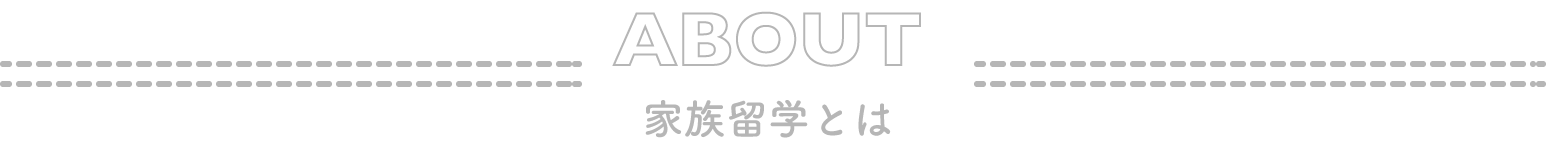
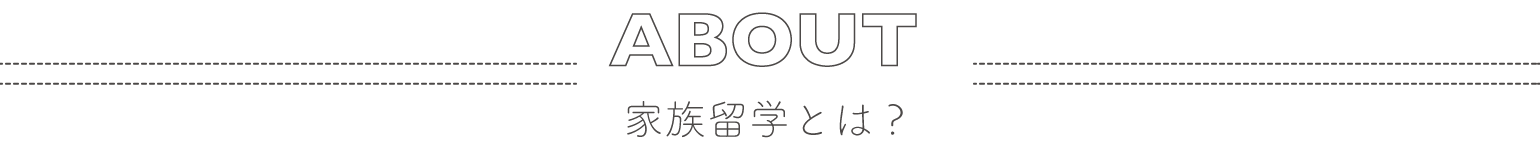
dix#71

diff --git a/index.html b/index.html
@@ -90,6 +90,9 @@
       </section>
 
       <section id="about" class="section">
+        <div class="section-header">
+          <img src="image/index/title/title-about.png" srcset="image/index/title/title-about.png 1x, image/index/title/title-about@2x.png 2x" alt="about">
+        </div>
         <div class="about-content">
           <img src="./image/index/about/about.png" srcset="./image/index/about/about.png 1x, ./image/index/about/about@2x.png 2x" alt="家族">
         </div>
@@ -133,8 +136,6 @@
           <br>
         </div>
       </section>
-
-
       <section id="media" class="section container">
         <div class="section-header">
           <img src="image/index/title/title-media.png" srcset="image/index/title/title-media.png 1x, image/index/title/title-media@2x.png 2x" alt="media">
@@ -142,42 +143,86 @@
         <div class="row media-content">
           <div class="media-col col-lg-3 media-wrapper">
             <div class="media-box">
-              <div class="media-image-wrapper">
-                <a href="http://dual.nikkei.co.jp/article.aspx?id=7474" target="_blank"><img src="image/media/media-10.png" srcset="image/media/media-10.png 1x, image/media/media-10@2x.png 2x" alt="日経DUAL"></a>
+              <div class="image-center media-logo">
+                <img src="image/media/media-nhk.png" alt="NHK">
               </div>
-              <hr>
-              <h5 class="content-title">2015.11.26<span class="media-type">ネット記事</span></h5>
-              <p class="content-description">【日経DUAL】イマドキの女子大生の問題意識、結婚観とは？</p>
             </div>
           </div>
           <div class="media-col col-lg-3 media-wrapper">
             <div class="media-box">
-              <div class="media-image-wrapper">
-              <a href="http://www.nhk.or.jp/shutoken/net/report/20151102.html" target="_blank"><img src="./image/media/media-13.png" srcset="image/media/media-13.png 1x, image/media/media-13@2x.png 2x" alt="NHK首都圏ネットワーク"></a>
+              <div class="image-center media-logo">
+                <img src="image/media/media-nhk-special.png" alt="NHKスペシャル">
               </div>
-              <hr>
-              <h5 class="media-title">2015.11.02<span class="media-type">テレビ特集</span></h5>
-              <p class="content-description">【NHK首都圏ネットワーク】子育て家庭の本音聞く“家庭留学”</p>
             </div>
           </div>
           <div class="media-col col-lg-3 media-wrapper">
             <div class="media-box">
-              <div class="media-image-wrapper">
-              <a href="http://www.mofa.go.jp/mofaj/fp/hr_ha/page22_001825.html" target="_blank"><img src="image/media/media-21.png" srcset="image/media/media-21.png 1x, image/media/media-21@2x.png 2x" alt="外務省"></a>
+              <div class="image-center media-logo">
+                <img src="image/media/media-nikkeiwoman.png" alt="日経WOMAN">
               </div>
-              <hr>
-              <h5 class="content-title">2015.08.25-26<span class="media-type">イベント登壇</span></h5>
-              <p class="content-description">【外務省】女性が輝く社会に向けた国際シンポジウム(WAW!2015)</p>
             </div>
           </div>
           <div class="media-col col-lg-3 media-wrapper">
             <div class="media-box">
-              <div class="media-image-wrapper">
-              <a href="http://www.ntv.co.jp/zero/human/2015/05/3.html" target="_blank"><img src="image/media/media-32.png" srcset="image/media/media-32.png 1x, image/media/media-32@2x.png 2x" alt="日本テレビ NEWSZERO"></a>
+              <div class="image-center media-logo">
+              <img src="image/media/media-yomiuri.png" alt="読売新聞">
               </div>
-              <hr>
-              <h5 class="content-title">2015.05.14<span class="media-type">テレビ特集</span></h5>
-              <p class="content-description">【日本テレビ NEWSZERO】ZERO HUMAN</p>
+            </div>
+          </div>
+          <div class="media-col col-lg-3 media-wrapper">
+            <div class="media-box">
+              <div class="image-center media-logo">
+                <img src="image/media/media-newszero.png" alt="NEWS ZERO">
+              </div>
+            </div>
+          </div>
+          <div class="media-col col-lg-3 media-wrapper">
+            <div class="media-box">
+              <div class="image-center media-logo">
+                <img src="image/media/media-yahoo.png" alt="Yahoo!ニュース">
+              </div>
+            </div>
+          </div>
+          <div class="media-col col-lg-3 media-wrapper">
+            <div class="media-box">
+              <div class="image-center media-logo">
+              <img src="image/media/media-dual.png" alt="日経DUAL">
+              </div>
+            </div>
+          </div>
+          <div class="media-col col-lg-3 media-wrapper">
+            <div class="media-box">
+              <div class="image-center media-logo">
+              <img src="image/media/media-nikkeiBP.png" alt="日経BP社">
+              </div>
+            </div>
+          </div>
+          <div class="media-col col-lg-3 media-wrapper">
+            <div class="media-box">
+              <div class="image-center media-logo">
+              <img src="image/media/media-nikkei.png" alt="日本経済新聞">
+              </div>
+            </div>
+          </div>
+          <div class="media-col col-lg-3 media-wrapper">
+            <div class="media-box">
+              <div class="image-center media-logo">
+              <img src="image/media/media-MOMPRENEURS.png" alt="MOMPRENEURS">
+              </div>
+            </div>
+          </div>
+          <div class="media-col col-lg-3 media-wrapper">
+            <div class="media-box">
+              <div class="image-center media-logo">
+              <img src="image/media/media-mamari.png" alt="mamari">
+              </div>
+            </div>
+          </div>
+          <div class="media-col col-lg-3 media-wrapper">
+            <div class="media-box">
+              <div class="image-center media-logo">
+              <img src="image/media/media-newspicks.png" alt="NP Community Team">
+              </div>
             </div>
           </div>
         </div>
@@ -185,7 +230,6 @@
           <a href="./media.html"><img src="./image/button/button-media.png" srcset="./image/button/button-media.png 1x, ./image/button/button-media@2x.png 2x" alt="メディア掲載一覧はこちら"></a>
         </div>
       </section>
-
       <section id="movie" class="section">
         <div class="section-header">
           <img src="image/index/title/title-report.png" srcset="image/index/title/title-report.png 1x, image/index/title/title-report@2x.png 2x" alt="report">

diff --git a/css/index/media.css b/css/index/media.css
@@ -1,21 +1,16 @@
-.media-content {
-}
-
-.media-wrapper {
-}
-
 .media-box {
   border: 1.5px solid #ddd;
-  box-shadow: 0 1.5px 1.5px rgba(0, 0, 0, 0.2);
+  box-shadow: 0 0.8px 0.8px rgba(0, 0, 0, 0.1);
   padding: 5%;
   margin: 3% 0;
-  height: 300px;
 }
 
-.media-image-wrapper img {
-  width: 180px;
-  height: auto;
+.image-center {
   text-align: center;
+}
+
+.media-logo img {
+  height: 30px;
 }
 
 .media-type {
@@ -35,4 +30,3 @@
     max-width: 100%;
     height: auto;
   }
-}
